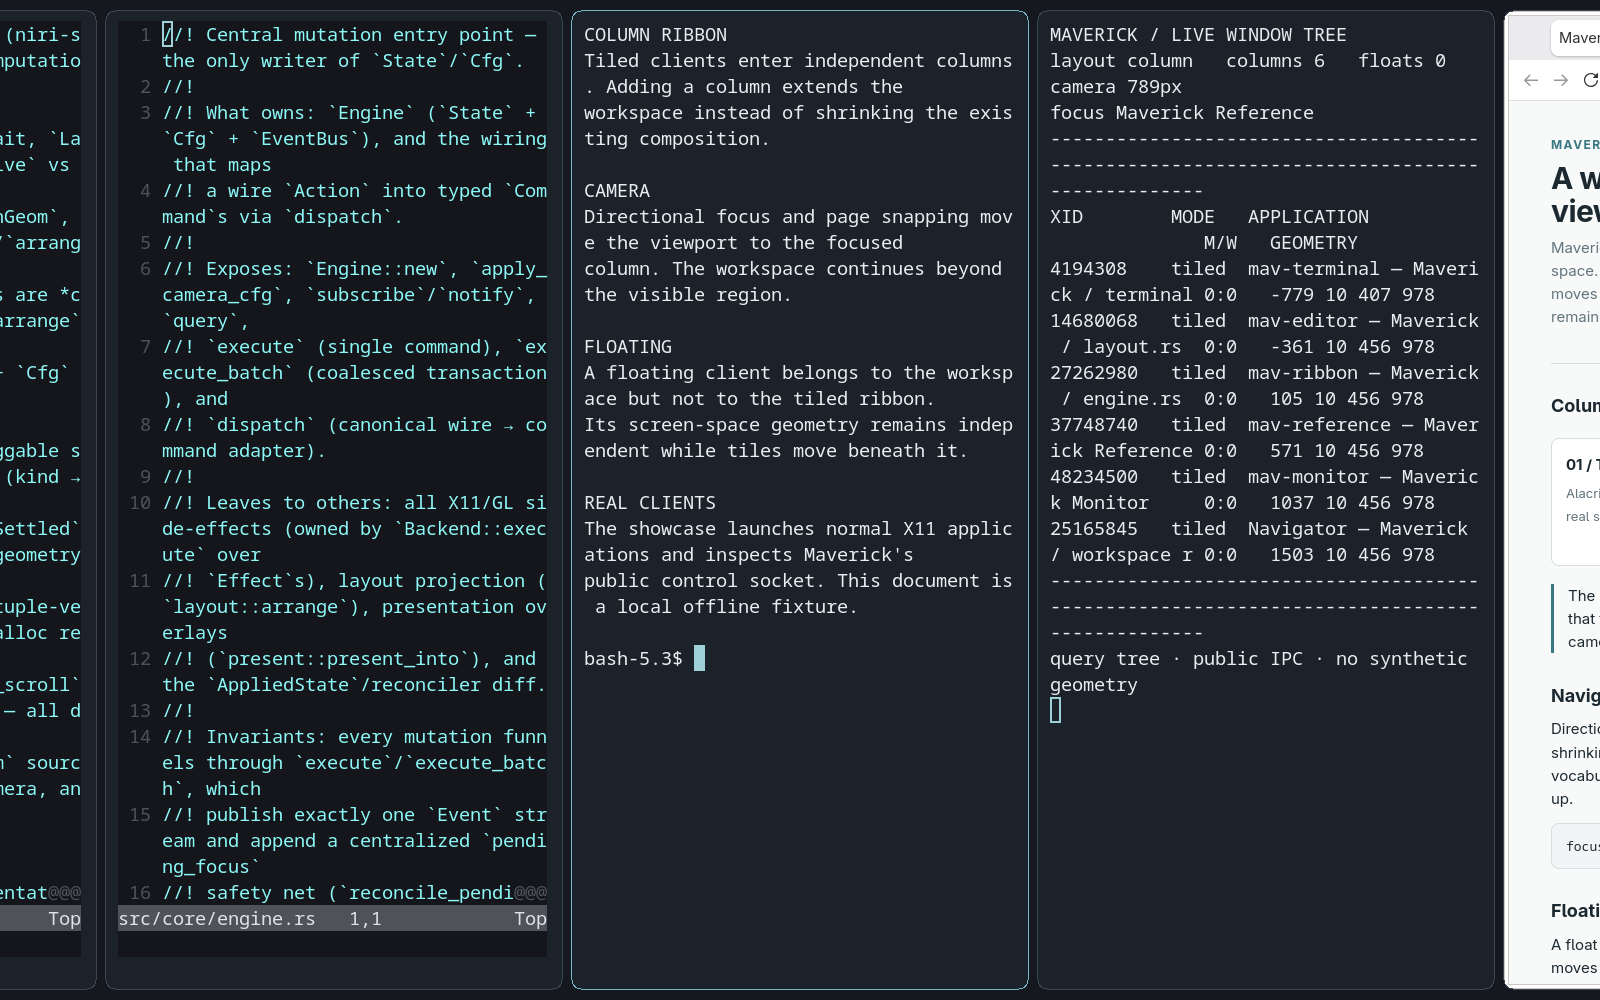
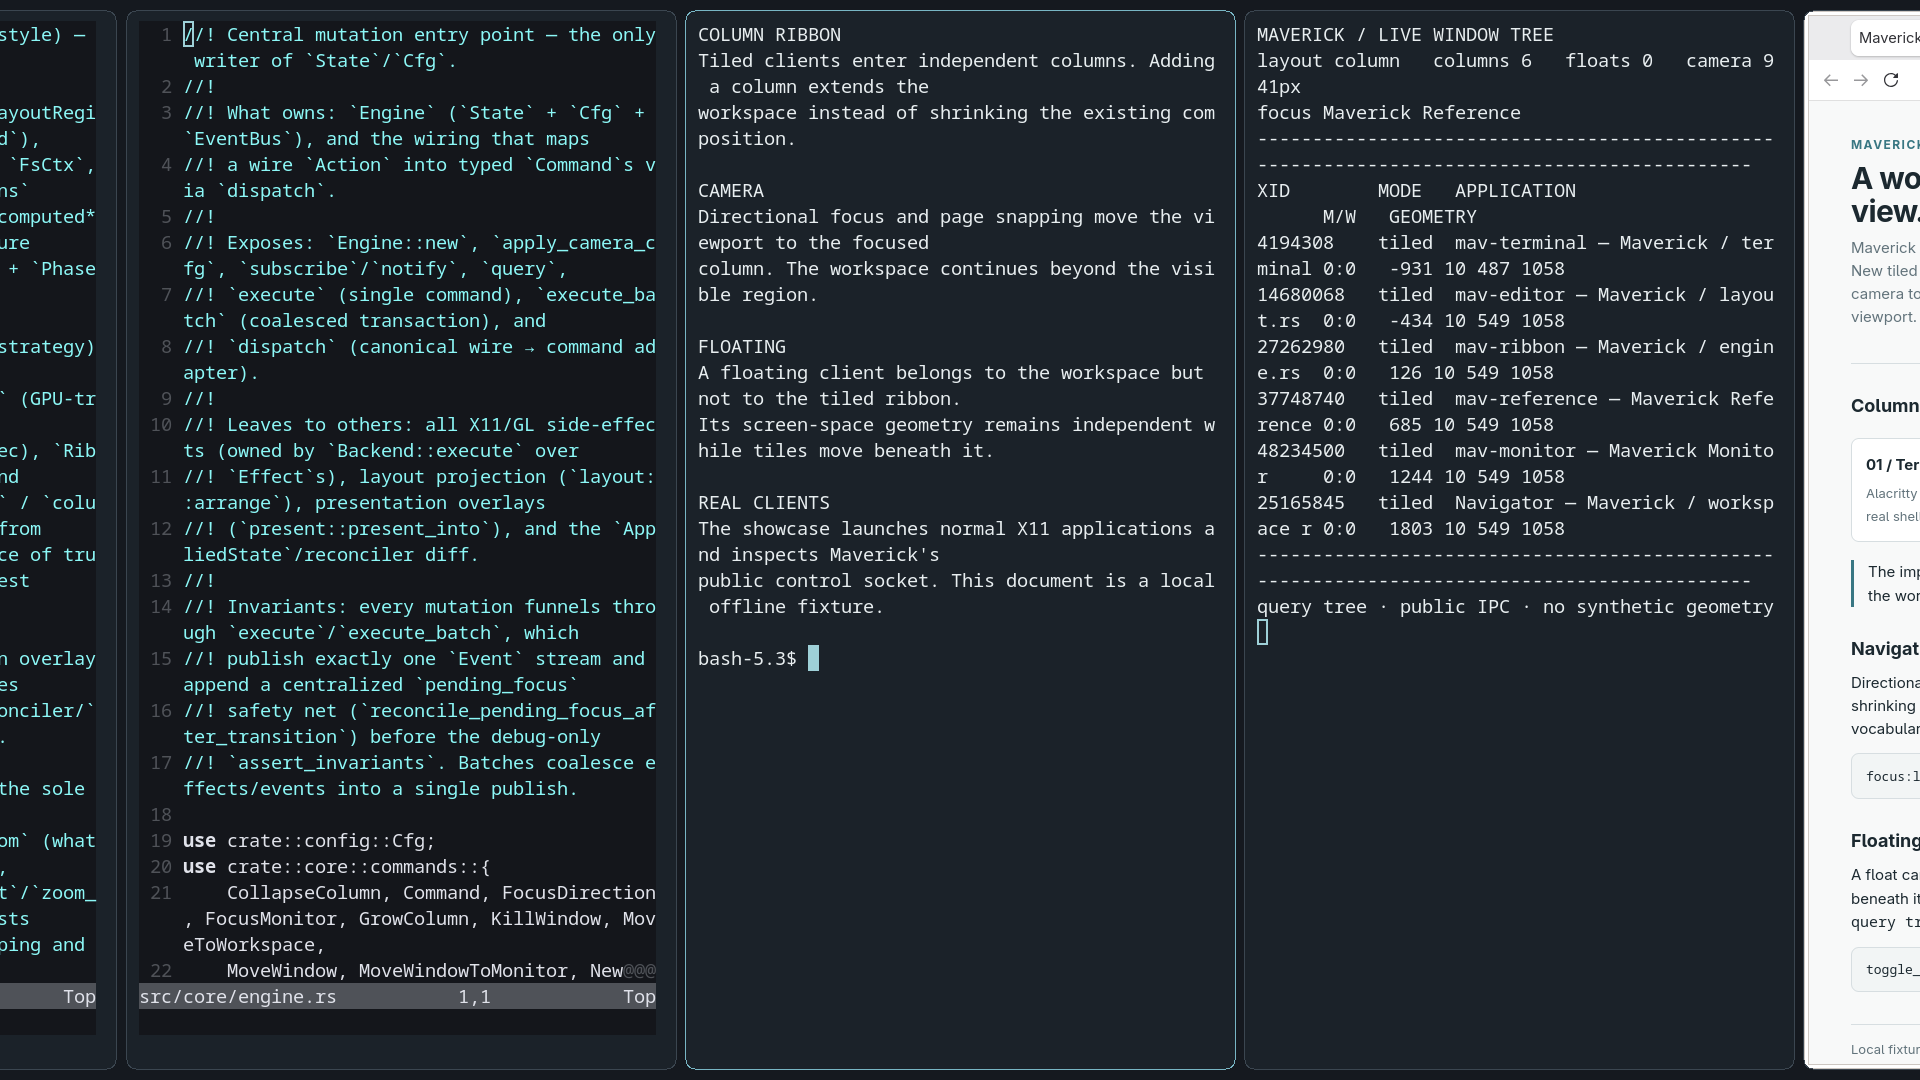
fix(showcase): widen reference compositions

diff --git a/showcase/scenes.py b/showcase/scenes.py
@@ -300,10 +300,10 @@ user_pref("network.proxy.type", 0);
             ),
             timeout=15,
         )
-        width = min(560, self.session.size[0] // 3)
-        height = min(390, self.session.size[1] // 2)
+        width = min(680, self.session.size[0] // 3)
+        height = min(460, self.session.size[1] // 2)
         x = int(self.session.size[0] * 0.48)
-        y = int(self.session.size[1] * 0.25)
+        y = int(self.session.size[1] * 0.23)
         float_before = self.session.place_float(monitor, width, height, x, y)
         self.session.focus(self.ids["terminal"])
         tiled_before = self.session.geometry(self.ids["terminal"])

diff --git a/showcase/main.py b/showcase/main.py
@@ -24,7 +24,7 @@ def main() -> int:
     parser.add_argument(
         "--size",
         default=f"{DEFAULT_SIZE[0]}x{DEFAULT_SIZE[1]}",
-        help="nested Xephyr size, for example 1600x1000 (default: %(default)s)",
+        help="nested Xephyr size, for example 1920x1080 (default: %(default)s)",
     )
     parser.add_argument(
         "--bin-dir",

diff --git a/showcase/harness.py b/showcase/harness.py
@@ -24,7 +24,7 @@ from typing import Any
 
 
 ROOT = Path(__file__).resolve().parents[1]
-DEFAULT_SIZE = (1600, 1000)
+DEFAULT_SIZE = (1920, 1080)
 DEFAULT_EVIDENCE = Path("/tmp/opencode/mav-showcase-evidence")
 PR_SET_CHILD_SUBREAPER = 36
 

diff --git a/showcase/README.md b/showcase/README.md
@@ -33,8 +33,9 @@ From the repository root:
 ./showcase/run.sh
 ```
 
-The default reference is `1600x1000`. A different nested Xephyr size can be
-selected when needed:
+The default reference is `1920x1080`, matching the development display used
+for the checked-in captures. A different nested Xephyr size can be selected
+when needed:
 
 ```bash
 ./showcase/run.sh --size 1440x900
@@ -78,7 +79,7 @@ applications. The bundled page itself has no network dependency.
   for deterministic startup. The OpenGL compositor remains a separate,
   driver-sensitive capability and is not substituted with a fake effect here.
 - The floating proof is strongest when the selected monitor is at least
-  `640x480`; the default `1600x1000` composition is the documented reference.
+  `640x480`; the default `1920x1080` composition is the documented reference.
 - A missing optional application changes the exact client mix, but the scene
   still launches a real application and records the actual WM tree instead of
   pretending that an unavailable application ran.

diff --git a/README.md b/README.md
@@ -672,7 +672,7 @@ Firefox offline preferences; no network resource is required.
 ./showcase/run.sh --size 1440x900
 ```
 
-The reference resolution is `1600x1000`; `--size` exists for a different
+The reference resolution is `1920x1080`; `--size` exists for a different
 local development display. The harness verifies capture dimensions, records
 JSON state/tree evidence under `/tmp/opencode/mav-showcase-evidence/`, and
 reaps every owned process before removing its private runtime. See

diff --git a/README.es.md b/README.es.md
@@ -723,7 +723,7 @@ preferencias offline de Firefox; no necesita ningún recurso de red.
 ./showcase/run.sh --size 1440x900
 ```
 
-La resolución de referencia es `1600x1000`; `--size` permite usarla en otro
+La resolución de referencia es `1920x1080`; `--size` permite usarla en otro
 display de desarrollo. El harness verifica las dimensiones de las capturas,
 guarda evidencia JSON de estado y árbol en
 `/tmp/opencode/mav-showcase-evidence/`, cosecha cada proceso creado y elimina
